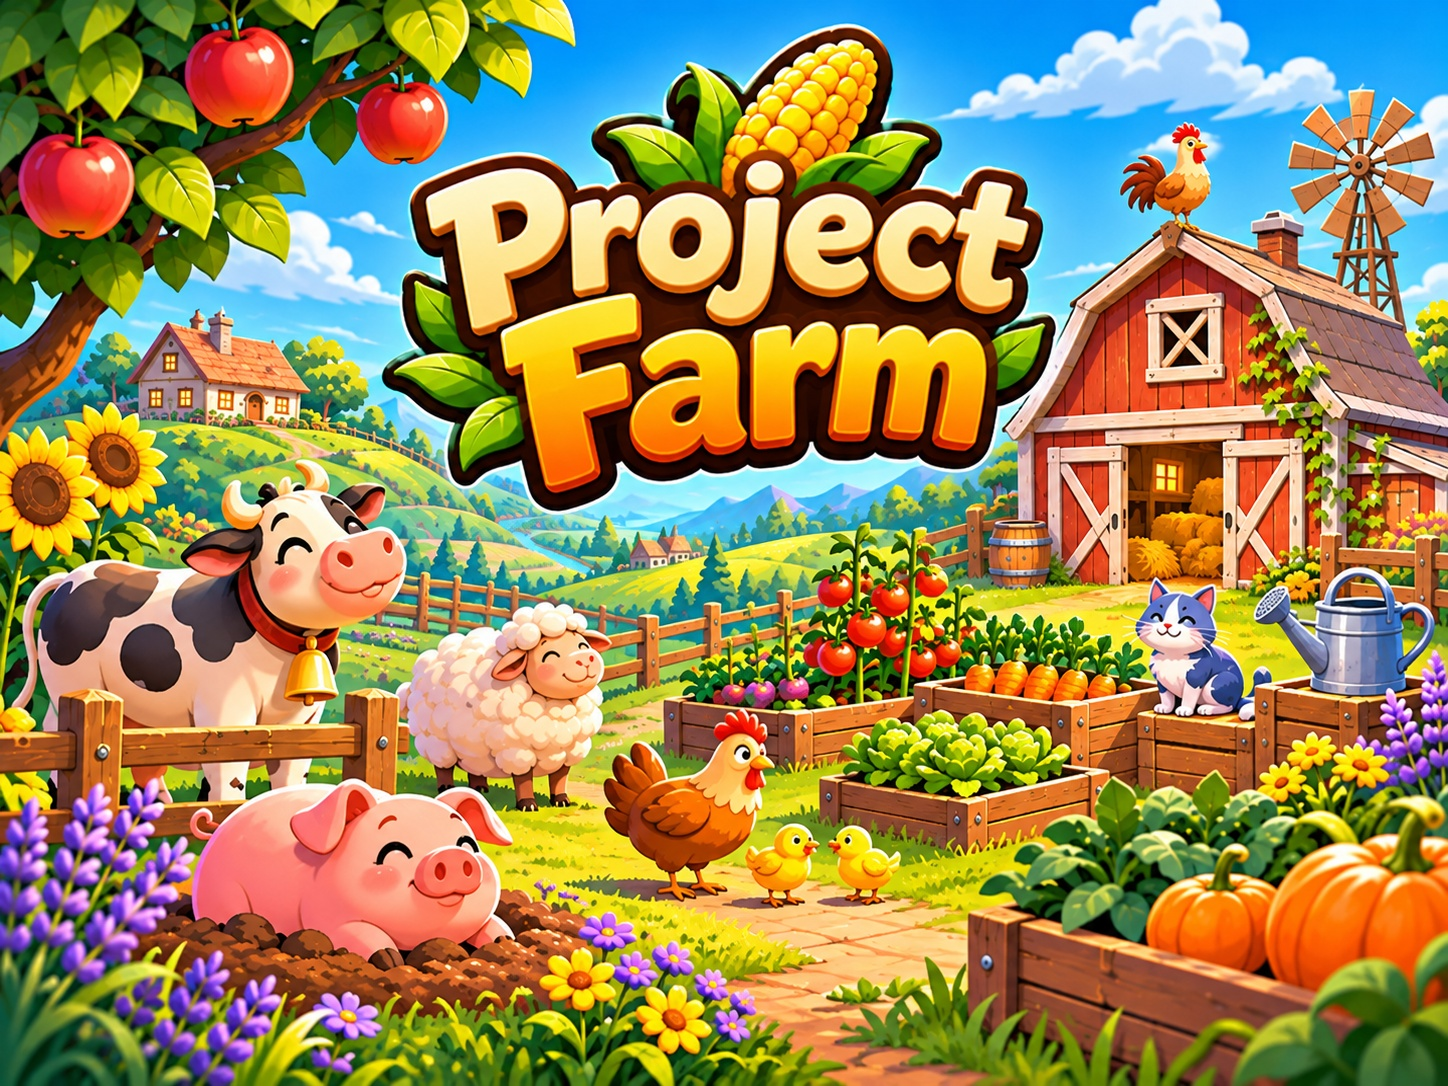
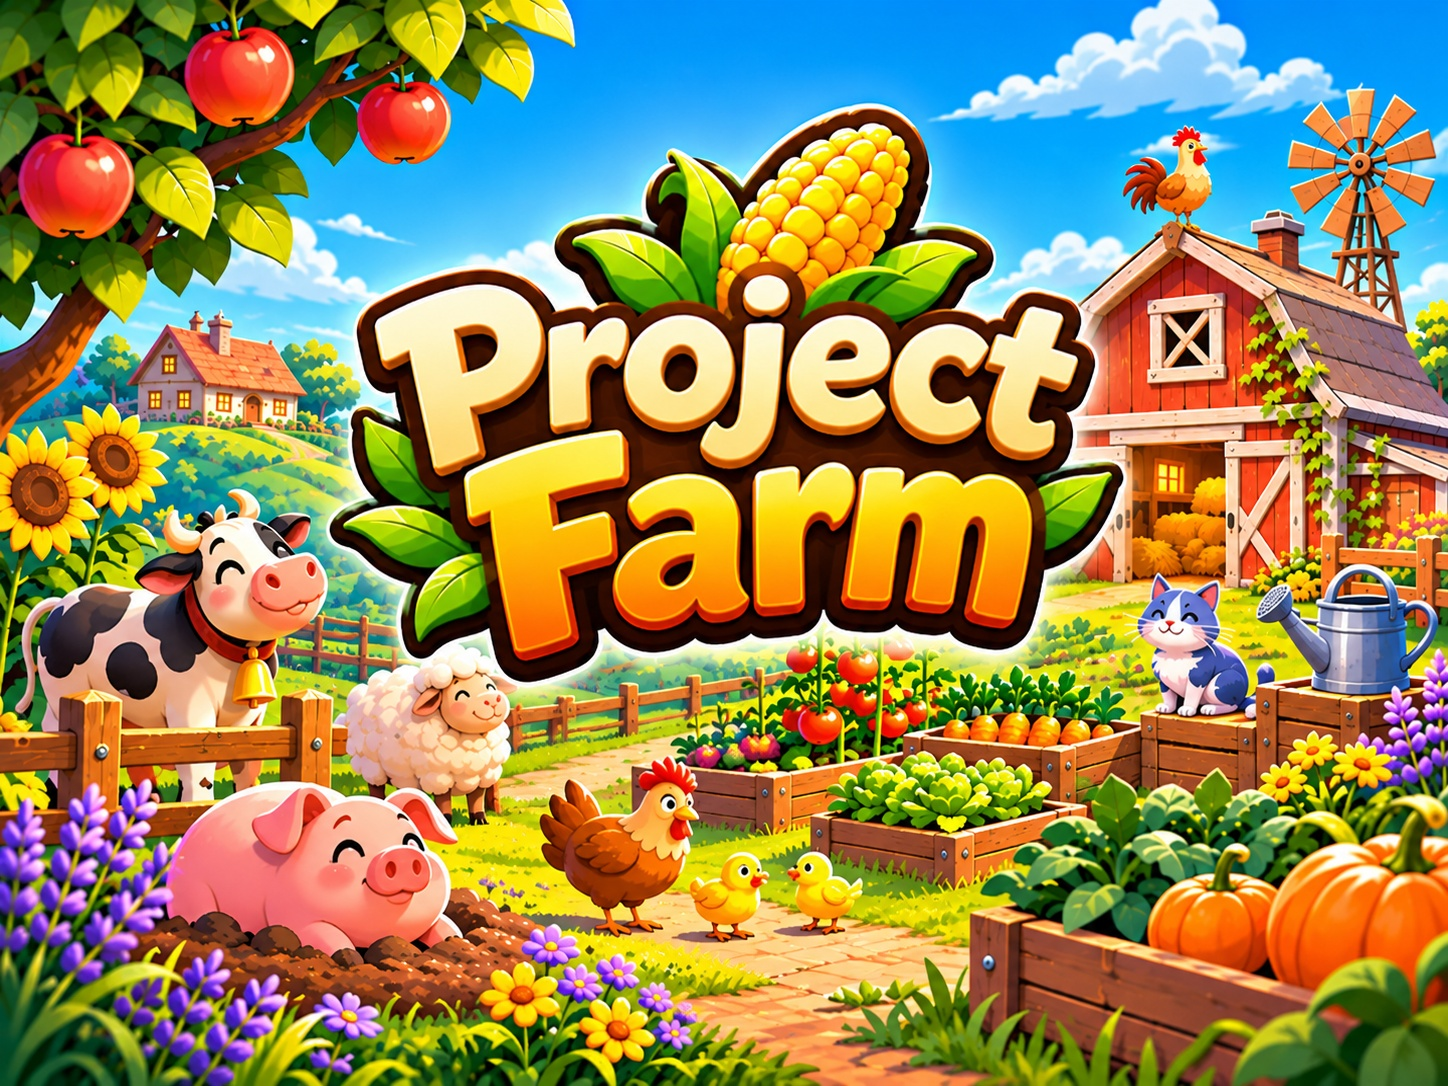
aktualziacja

diff --git a/styles.css b/styles.css
@@ -14,36 +14,3 @@
 @media(max-width:720px){.container{width:min(100% - 36px,1180px)}.site-header{height:72px}.brand{font-size:14px}.brand img{width:38px;height:38px}.desktop-nav{gap:14px}.desktop-nav a{font-size:12px}.hero-grid{grid-template-columns:1fr;padding-top:56px;padding-bottom:48px}.hero h1{font-size:clamp(46px,10vw,65px)}.hero-art{height:420px;max-width:520px;width:100%;margin:auto}.hero-copy{max-width:620px}.hero-bottom{padding-bottom:15px}.section-padding{padding:78px 0}.about-grid{display:block}.about-grid .section-side{display:flex;align-items:center}.quote-symbol{display:none}.values{grid-template-columns:repeat(3,1fr);gap:12px}.section-top{display:block}.section-aside{margin-top:15px}.games-grid{grid-template-columns:1fr}.game-card{display:grid;grid-template-columns:43% 57%}.game-visual{height:100%;min-height:240px}.game-meta{flex-direction:row;flex-wrap:wrap}.game-details p{min-height:0}.contact-grid{grid-template-columns:1fr}.contact-illustration{width:260px}.footer-inner{flex-wrap:wrap;justify-content:space-between;padding:22px 0}.footer p:last-of-type{margin-left:0}.footer p:nth-of-type(1){flex-basis:100%;order:3}.back-top{margin-left:auto}}
 @media(max-width:500px){.desktop-nav{display:none}.language-switch{font-size:13px}.hero{min-height:0}.hero-grid{padding-top:44px}.hero h1{font-size:45px}.hero-lead{font-size:15px}.hero-art{height:340px}.art-caption{font-size:10px;bottom:-12px;right:4%}.button{font-size:12px;padding:13px 15px;gap:12px}.origin-note{font-size:11px}.hero-bottom{display:none}.section-heading{font-size:37px}.values{grid-template-columns:1fr;gap:20px}.values>div{display:grid;grid-template-columns:39px 1fr;column-gap:12px}.values .value-icon{grid-row:span 2;margin:0}.game-card{display:block}.game-visual{height:225px;min-height:0}.game-meta{flex-direction:row}.game-details{padding:25px}.philosophy{padding:80px 14px}.philosophy h2{font-size:37px}.footer-inner{gap:16px}.footer-brand{font-size:12px}}
 @media(prefers-reduced-motion:reduce){html{scroll-behavior:auto}*,*::before,*::after{transition:none!important;animation:none!important}}
-
-/* Runeshatter links: clickable image/title without image zoom or scale animation */
-/* The clickable area is taken out of document flow, so the image
-   cannot expand the game card or push its description below the fold. */
-.game-visual.runeshatter .runeshatter-image-link {
-  position: absolute;
-  inset: 0;
-  display: block;
-  cursor: pointer;
-}
-.game-visual.runeshatter .runeshatter-image-link img,
-.game-visual.runeshatter .runeshatter-image-link:hover img {
-  display: block;
-  width: 100%;
-  height: 100%;
-  object-fit: cover;
-  object-position: center;
-  transform: none;
-  transition: none;
-}
-.game-title-link {
-  color: inherit;
-  text-decoration: none;
-}
-.game-title-link:hover,
-.game-title-link:focus-visible {
-  color: #E66A2C;
-}
-.game-visual.runeshatter .runeshatter-image-link:focus-visible,
-.game-title-link:focus-visible {
-  outline: 3px solid #E66A2C;
-  outline-offset: 3px;
-}

diff --git a/index.html b/index.html
@@ -82,12 +82,8 @@
         </div>
         <div class="games-grid">
           <article class="game-card game-featured">
-            <div class="game-visual runeshatter">
-              <a class="runeshatter-image-link" href="https://www.runeshatter.com" target="_blank" rel="noopener noreferrer" aria-label="Runeshatter — open game website">
-                <img loading="lazy" src="assets/runeshatter.jpg" alt="Runeshatter key art with a lone warrior, glowing runic emblem, ruined arches, mountains and waterfalls">
-              </a>
-            </div>
-            <div class="game-details"><div class="game-meta"><span data-i18n="genreRuneshatter">DARK FANTASY · TACTICAL MATCH-3</span><span class="status" data-i18n="status">IN DEVELOPMENT</span></div><h3><a class="game-title-link" href="https://ADRES-STRONY-GRY" target="_blank" rel="noopener noreferrer">Runeshatter</a></h3><p data-i18n="runeshatterDesc">A mysterious fantasy journey where matching runes becomes a test of strategy, and one hero grows stronger with every challenge.</p><span class="game-index">PROJECT 01</span></div>
+            <div class="game-visual runeshatter" role="img" aria-label="Runeshatter key art showing a lone warrior facing a dramatic fantasy landscape with ruins, glowing runes, mountains, waterfalls, and the Runeshatter logo"><img loading="lazy" src="assets/runeshatter.jpg" alt="Runeshatter key art with a lone warrior, glowing runic emblem, ruined arches, mountains and waterfalls"></div>
+            <div class="game-details"><div class="game-meta"><span data-i18n="genreRuneshatter">DARK FANTASY · TACTICAL MATCH-3</span><span class="status" data-i18n="status">IN DEVELOPMENT</span></div><h3>Runeshatter</h3><p data-i18n="runeshatterDesc">A mysterious fantasy journey where matching runes becomes a test of strategy, and one hero grows stronger with every challenge.</p><span class="game-index">PROJECT 01</span></div>
           </article>
           <article class="game-card">
             <div class="game-visual project-farm" role="img" aria-label="Project Farm key art showing a bright cozy farm with animals, crops, a red barn, and the Project Farm logo"><img loading="lazy" src="assets/project-farm.jpg" alt="Project Farm key art with a cheerful farm, barn, vegetables, animals, and large title logo"></div>

diff --git a/README.md b/README.md
@@ -52,6 +52,4 @@ Pliki logo są rastrowymi wersjami zaakceptowanego kierunku graficznego, nie rę
 
 - Replaced the Project Farm website artwork again using the corrected PNG source and refreshed the exported JPG asset used on the page.
 
-
-## Fix v8
-Runeshatter image link is absolutely positioned inside the existing fixed-height artwork container. This prevents expanding the card. No image scale animation.
+- Replaced the Project Farm artwork with the newest provided key art and refreshed exported website assets.
